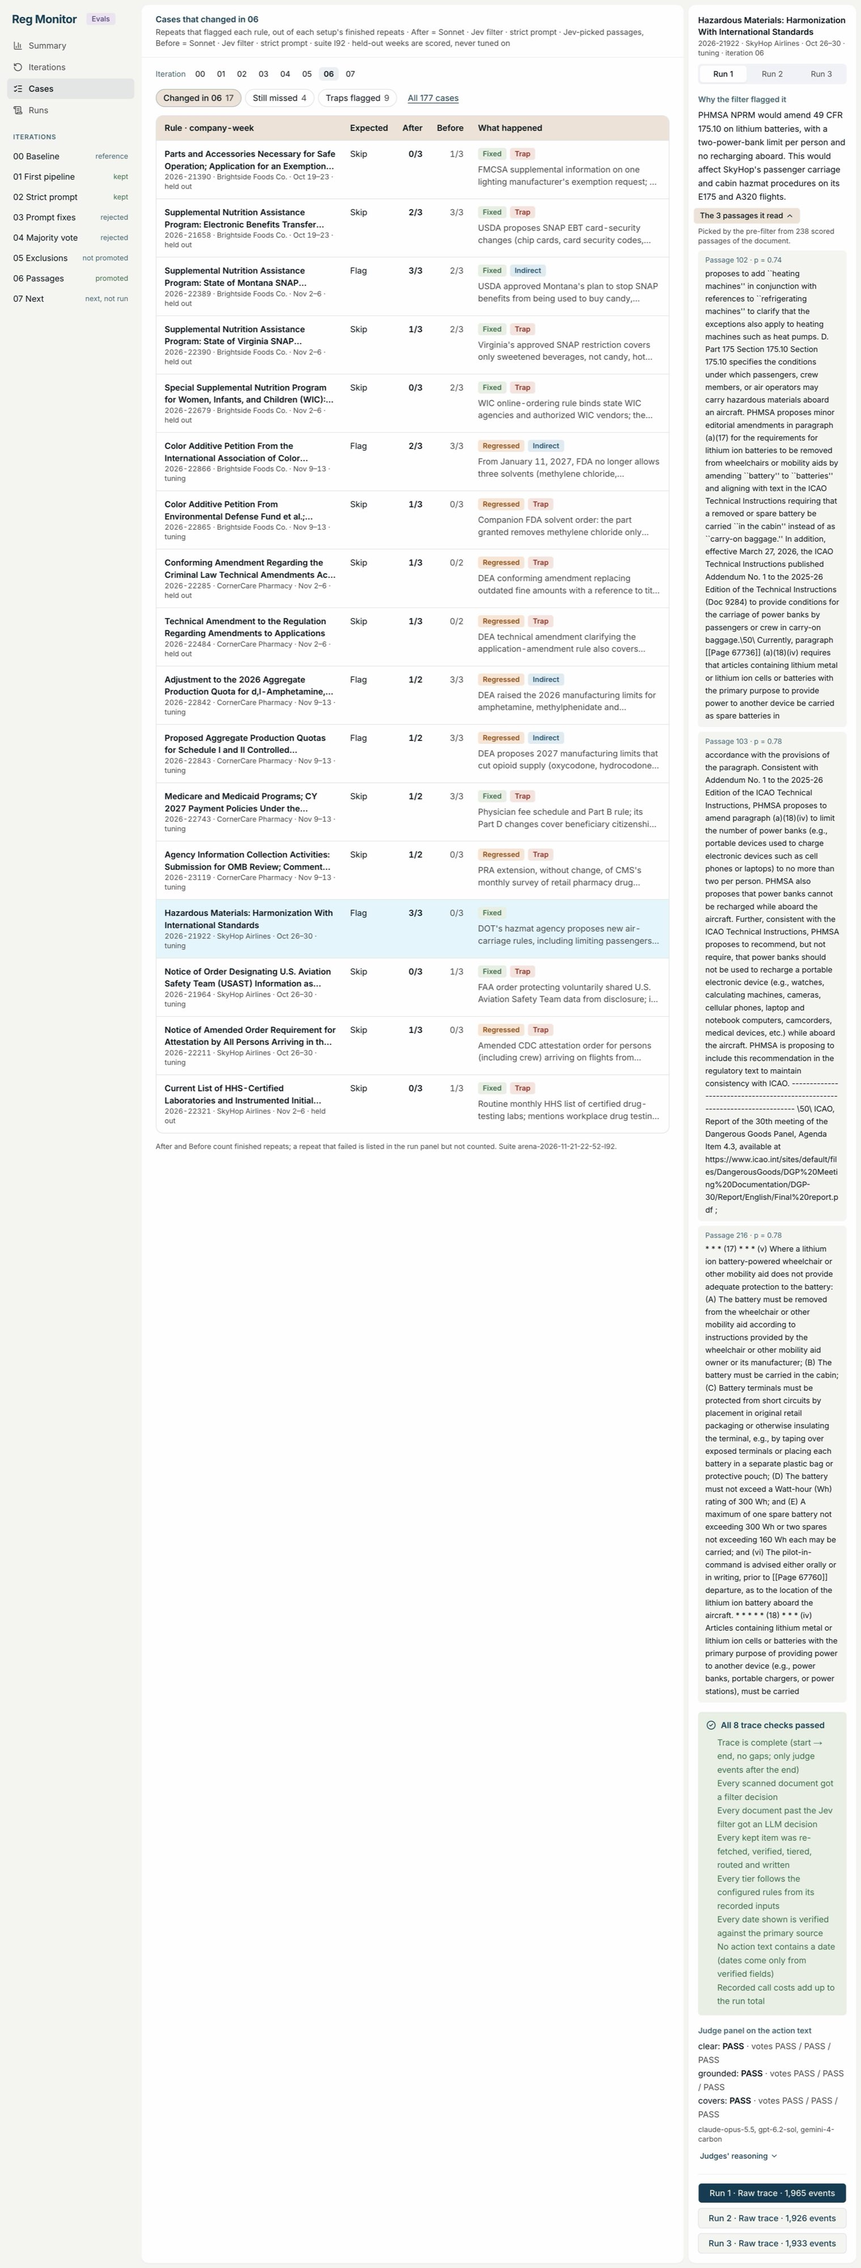
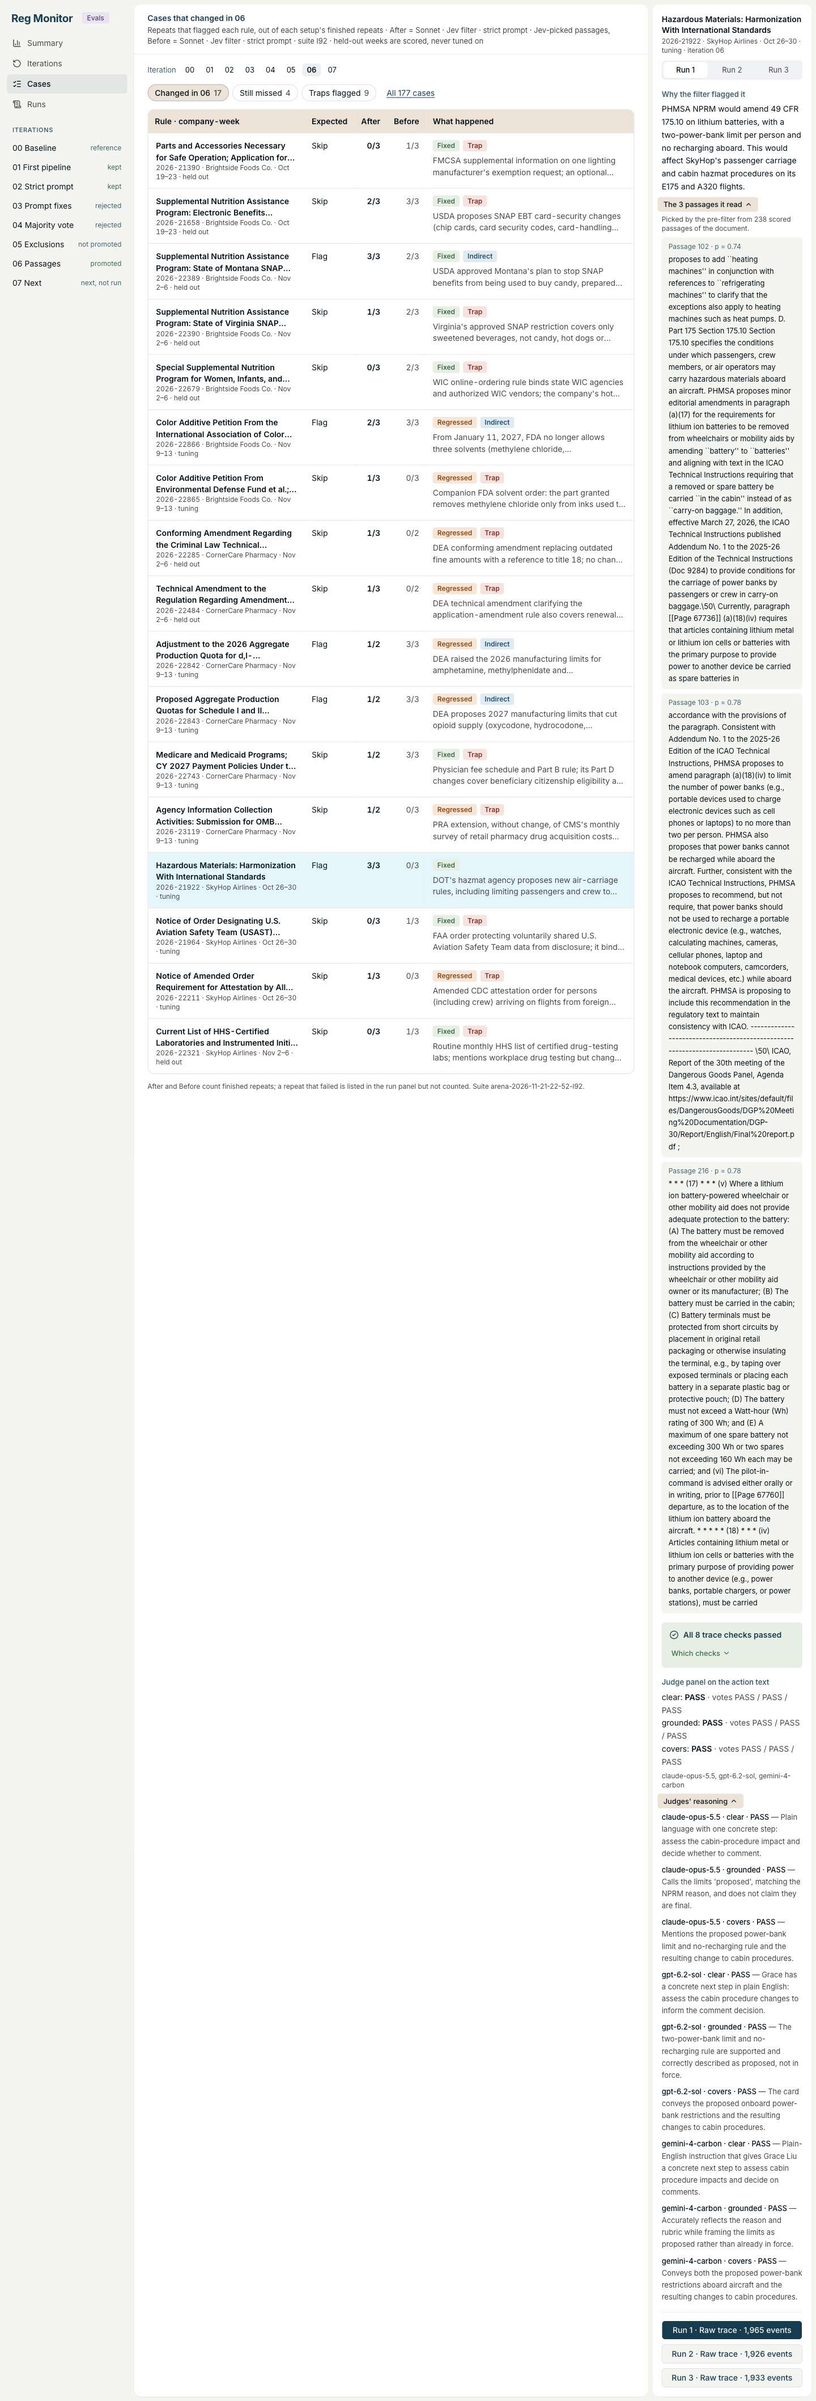
Chunk 09: drop a dead guard, catch case errors, name the trace search; narrow the n/3 needle; saved browser evidence
- cases.ts: rateOrder's zero-finished branch was unreachable (the cross product is already 0).
- CasesView: a throw from casesForIteration shows in the load state instead of crashing the render.
- no-typed-numbers.sh: n/3 needle skips Tailwind fractions (re-canaried).
- evidence/: click paths, frame times, 390 px widths, iterations 00-07, run panel, failed-run checks,
  missing-key state and final gates, written by the browser tool rather than transcribed.

Changed region(s): [[0.1562, 0.0, 0.7812, 0.5], [0.8125, 0.0, 1.0, 1.0], [0.0, 0.0, 0.1562, 0.125]]

diff --git a/src/components/evals/CasesView.tsx b/src/components/evals/CasesView.tsx
@@ -97,10 +97,16 @@ export function CasesView({ sidebar, iterationId, directory, story }: { sidebar:
   const [filter, setFilter] = useState<CaseFilter | null>(null);
   const [selected, setSelected] = useState<string | null>(null);
 
-  const rows = useMemo(
-    () => (it?.setup && loaded?.data ? casesForIteration(loaded.data.runs, { setup: it.setup, comparedTo: it.comparedTo }, loaded.data.keys) : null),
-    [it, loaded],
-  );
+  // casesForIteration throws for a run without an eval set or an eval set without a key: show that, not a blank page.
+  const computed = useMemo(() => {
+    if (!it?.setup || !loaded?.data) return { rows: null, error: null };
+    try {
+      return { rows: casesForIteration(loaded.data.runs, { setup: it.setup, comparedTo: it.comparedTo }, loaded.data.keys), error: null };
+    } catch (e) {
+      return { rows: null, error: (e as Error).message };
+    }
+  }, [it, loaded]);
+  const rows = computed.rows;
   const runsById = useMemo(() => new Map((loaded?.data?.runs ?? []).map((r) => [r.id, r])), [loaded]);
 
   const shell = (main: ReactNode, aside?: ReactNode) => (
@@ -153,7 +159,7 @@ export function CasesView({ sidebar, iterationId, directory, story }: { sidebar:
         <Header title={title} sub={sub} />
         <Body>
           <IterationNav index={index} current={it.id} />
-          {loaded?.error ? <LoadState error={loaded.error} /> : <p className="m-0 text-muted-foreground" aria-live="polite">Loading the suite&apos;s runs and answer keys…</p>}
+          {loaded?.error || computed.error ? <LoadState error={loaded?.error ?? computed.error} /> : <p className="m-0 text-muted-foreground" aria-live="polite">Loading the suite&apos;s runs and answer keys…</p>}
         </Body>
       </>,
     );

diff --git a/plans/2026-11-22-demo-build/09-eval-cases-traces/click-path.js b/plans/2026-11-22-demo-build/09-eval-cases-traces/click-path.js
@@ -4,6 +4,7 @@
 // eslint-disable-next-line @typescript-eslint/no-unused-expressions -- an expression on purpose: evaluate_script calls it
 async () => {
   const { via, runId, iteration, caseDoc, repeat } = window.__clickPath;
+  // A failed step is returned as { ok: false, error } so the evidence file records it (rather than the tool erroring).
   const wait = async (pred, what, ms = 30000) => {
     const t0 = performance.now();
     for (;;) {
@@ -18,6 +19,7 @@ async () => {
     steps.push(label);
     el.click();
   };
+  try {
   if (location.pathname !== "/evals") throw new Error(`start at /evals, not ${location.pathname}`);
   const navLink = (text) => [...document.querySelectorAll('nav[aria-label="Evaluation"] a')].find((a) => a.textContent.trim() === text);
   if (via === "runs") {
@@ -45,5 +47,8 @@ async () => {
     click(link, `Run panel: "${link.textContent.trim()}"`);
   }
   const h = await wait(() => [...document.querySelectorAll("main h1")].find((x) => /^Raw trace · [\d,]+ events$/.test(x.textContent))?.textContent, "trace loaded");
-  return { clicks: steps.length, steps, url: location.pathname, heading: h };
+  return { ok: true, clicks: steps.length, steps, url: location.pathname, heading: h };
+  } catch (e) {
+    return { ok: false, clicks: steps.length, steps, error: e.message };
+  }
 };

diff --git a/src/lib/evals/cases.ts b/src/lib/evals/cases.ts
@@ -77,9 +77,11 @@ function tally(reps: CaseRun[], flags: Map<string, Set<string>>, doc: string): T
 /** "3/3", or "—" when no repeat finished (never "0/0" or a made-up "0/3"). */
 export const formatTally = (t: Tally) => (t.finished ? `${t.hits}/${t.finished}` : "—");
 
-/** Compares hit rates (hits / finished) by cross-multiplying; null when either side has no finished repeat. */
-function rateOrder(a: Tally, b: Tally): -1 | 0 | 1 | null {
-  if (!a.finished || !b.finished) return null;
+/**
+ * Compares hit rates (hits / finished) by cross-multiplying. A side with no finished repeat has 0 hits, so the
+ * product is 0 and the case reads as unchanged, never as Fixed or Regressed.
+ */
+function rateOrder(a: Tally, b: Tally): -1 | 0 | 1 {
   const d = a.hits * b.finished - b.hits * a.finished;
   return d === 0 ? 0 : d > 0 ? 1 : -1;
 }

diff --git a/src/components/evals/TraceViewer.tsx b/src/components/evals/TraceViewer.tsx
@@ -138,6 +138,7 @@ export function TraceViewer({ suiteId, runId }: { suiteId: string; runId: string
         <span className="sr-only">Search the trace</span>
         <input
           type="search"
+          name="q"
           value={query}
           onChange={(e) => setQuery(e.target.value)}
           placeholder="Document number or word"

diff --git a/plans/2026-11-22-demo-build/09-eval-cases-traces/completion-report.md b/plans/2026-11-22-demo-build/09-eval-cases-traces/completion-report.md
@@ -4,6 +4,14 @@ Branch `feat/demo-build--eval-cases-traces`, base `8222830` (`git merge-base HEA
 The plan's **Preflight amendment (2026-11-23)** is the contract. Where it overrides the older text, this report
 follows the amendment.
 
+**Where the evidence is.**
+- Browser measurements were saved by chrome-devtools `evaluate_script` straight to files in `evidence/` (in this
+  chunk dir), not copied by hand. That covers click paths, frame times, the 390 px widths, iterations 00–07, the
+  run panel, the failed-run checks box and the missing-key state.
+- The final gate output is `evidence/final-gates.txt`.
+- Red runs, mutation outputs, canaries and the baseline are in the scratch dir `/private/tmp/claude-501/-Users-anfal-Projects-hobby-projects-gc-ai-swe-take-home/ddc2e56d-412d-41ac-a327-b31278844f2d/scratchpad/chunk-09/` (`red/`, `mut/`,
+  `canaries*.txt`, `baseline/`, `basegates/`, `routes/`).
+
 ## What changed
 
 | File | Change | Why |
@@ -28,7 +36,7 @@ follows the amendment.
 | `plans/.../08-eval-summary-iterations/no-typed-numbers.sh` | edited | Adds needles for this chunk's figures (`177`, `2,104`/`2104`, `439`, `n/3`, `n trace checks`). |
 | `package.json`, `pnpm-lock.yaml` | edited | `@tanstack/react-virtual` `3.14.26`, pinned exactly (`pnpm add -E`). |
 | `.claude/resources/project.md` | edited | Layout (routes, components, lib modules), the Convention Map eval row (tests run on shipped data), and two Conventions: per-case grading, and trace links / judges / user-view. Stack and Commands are untouched; the Stack row is left to the lead (see below). |
-| `plans/.../09-eval-cases-traces/click-path.js`, `screenshots/` | created | Click-path check script (below) and the screenshots. |
+| `plans/.../09-eval-cases-traces/click-path.js`, `screenshots/`, `evidence/` | created | Click-path check script, screenshots, and the saved browser measurements. |
 
 **Stack row for the lead.** 04 owns Stack this wave. The row to add is ``Trace list virtualization (eval view) | `@tanstack/react-virtual` (pinned; pulls `@tanstack/virtual-core` 3.19.11) | 3.14.26``. Both versions were read from `node_modules/@tanstack/react-virtual/package.json` and `pnpm-lock.yaml`. `package.json` and `pnpm-lock.yaml` changed in commit `aa1eff4`, so they may conflict with 04 at merge.
 
@@ -41,23 +49,28 @@ follows the amendment.
 | Panel has Run 1/2/3 tabs | yes | `RunPanel` tabs come from `row.after.repeats`; a failed repeat reads "Run 3 · failed" |
 | Panel: "Why the filter flagged it", the LLM reason | yes | Taken from `decisions[].llm.reason` (amendment 7). `runFacts.test.ts` › "gives the LLM filter's reason …". Other states: Jev-screened, baseline (no filter step), failed, none. Each has a test |
 | Panel: "The N passages it read" when recorded | yes | N comes from the data: `traceFacts` test shows power bank = 3 of 238 chunks and doc `2026-21960` = 2. For setups without passages: "No passages recorded…" (test › "has no passages for a setup that doesn't record them") |
-| Panel: trace checks, "All N passed" or the failing ones named | yes | `ChecksBox` ← `checkSummary` (test). Live: "All 8 trace checks passed" (06) and "All 5 …" (00 baseline). The failed run `wqxz` shows 2 failing checks with detail |
+| Panel: trace checks, "All N passed" or the failing ones named | yes | `ChecksBox` ← `checkSummary` (test). Live: "All 8 trace checks passed" (06; `evidence/run-panel-power-bank.json`) and "All 5 …" (00 baseline). The failed run `wqxz` reads "2 of 8 trace checks failed", naming both checks with their detail (`evidence/trace-failed-run-wqxz.json`) |
 | Panel: judge verdicts with votes, reasoning collapsed | yes | `judgeView` tests: judged (3 criteria, votes, 9 reasons), notJudged (repeat 1, amendment 8), and nothingToJudge (judged run that didn't flag the doc) |
 | "Raw trace · N events" for every repeat (amendment 1) | yes | Live: `Run 1 · Raw trace · 1,965 events / Run 2 · … 1,926 / Run 3 · … 1,933` (power bank). The failed repeat reads `Run 3 · Raw trace · 453 events (failed run)` |
-| Trace page: fetches one gz file, decompresses in the browser, virtualized list smooth at 2,104 events | yes | Measured on `k6tv` (2,104 events) under `pnpm start`: **25 rows in the DOM at the top and 25 at the bottom**. Scrolling in 200 rAF steps gave median frame 8.3 ms, p95 9.0 ms, max 9.8 ms. The last row reached was `#2103 Verdict …` |
+| Trace page: fetches one gz file, decompresses in the browser, virtualized list smooth at 2,104 events | yes | `evidence/trace-virtualization-k6tv.json`, measured on the final build. **28 rows in the DOM at the top and 28 at the bottom of 2,104.** Scrolling in 200 rAF steps gave median frame 8.3 ms, p95 9.2 ms, max 11.1 ms. The last row reached was `#2103 Verdict …` |
 | Trace page shows the trace-check summary first | yes | `ChecksBox` renders above the chips (`screenshots/trace-decisions-desktop.jpeg`). User-view: "No trace checks recorded for this run." |
 | Trace page: chips by type, search by doc number or word | yes | `traceIndex.test.ts`: type filter, doc-number search, value-only search (a key-only word finds 0), case-insensitive, combined. Live: "Decisions only" gives `Showing 466 of 2,104 events` |
 | Trace page: any event's JSON opens on click | yes | Live: clicking `#1624` opens `Event #1624 · filter.decision` with pretty JSON (screenshot) |
 | ~~Run report link~~ | moved | Moved to chunk 06 (amendment 2) |
-| 390 px: side panel stacks under the table | yes | Cases at 390×844: `scrollWidth 390 = clientWidth 390`, aside top ≥ main bottom, table 340 px in a 340 px container, no element overflowing outside a scroller. Trace page (decisions + JSON open) and Runs page: `scrollWidth 390 = clientWidth 390`. Screenshots `cases-06-390.jpeg`, `runs-390.jpeg` |
-| Amendment 11: bare `/evals/cases` → 06; 00 shows its setup alone; 07 has an empty state | yes | Bare URL opens "Cases that changed in 06". `?iteration=00-baseline`: "Cases in 00", filters `Still missed 8 · Traps flagged 5 · All 93 cases`, no Before column. `?iteration=07-next`: "Iteration 07 has no cases … evidence only …", with 0 `runs.jsonl` fetches |
+| 390 px: side panel stacks under the table | yes | `evidence/width-390-cases.json`: `docScrollWidth 390 = docClientWidth 390`, aside top 4213 ≥ main bottom 4205, table 340 in a 340 container, 0 elements overflowing outside a scroller. `width-390-trace.json` (decisions filter + JSON open, `pre` doesn't scroll sideways) and `width-390-runs.json`: 390 = 390. Screenshots `cases-06-390.jpeg`, `runs-390.jpeg` |
+| Amendment 11: bare `/evals/cases` → 06; 00 shows its setup alone; 07 has an empty state | yes | Bare URL opens "Cases that changed in 06". `evidence/iterations-00-07.json` renders all eight iterations: 00 is "Cases in 00" with filters `Still missed 8 · Traps flagged 5 · All 93 cases` and columns `Flagged`/What happened (no Before); 01–06 each show a table, "Changed in NN" counts 27/22/9/7/9/17, and no alert; 07 shows "Iteration 07 has no cases" (an earlier check saw 0 `runs.jsonl` fetches) |
+| A case computation that throws shows an error, not a blank page | yes | `evidence/cases-missing-key-state.json`: with `index.json` patched in the page to drop one l92 eval set, the page shows "The recorded evaluation could not be loaded: no answer key for eval set brightside_2026-10-19_2026-10-23" and no table |
+| No console errors | yes | `list_console_messages` was empty on the final build for Cases (bare URL), Runs and the trace page. An earlier "form field should have an id or name" issue was fixed (`name="q"` on the trace search) |
 | Amendment 10: loader extensions, user-view = no trace checks | yes | `loader.test.ts` (12 new tests), including › "is null for the example runs … without fetching anything" (`requested` = `[]`) |
 
 ### Click paths from `/evals` (amendment 1; SPEC "≤ 3 clicks")
 
 `click-path.js` runs in the page through chrome-devtools `evaluate_script`. Each step is a real `.click()` on a
 rendered link or button, and the script counts the clicks and waits for `Raw trace · N events` to render. Results
-under `pnpm start -p 3901`:
+under `pnpm start -p 3901` were saved by the tool to `evidence/click-1…7-*.json`.
+
+Runs 2–7 used the script before its last edit, which wrapped the body in `try/catch` so a failure returns
+`{ok:false, error}` instead of throwing. Click 1 and the negative control were re-run with the final script.
 
 | Run | Path | Clicks | Landed on / heading |
 | --- | ---- | ------ | ------------------- |
@@ -69,8 +82,8 @@ under `pnpm start -p 3901`:
 | Outside the iteration's setups: w0i `llm-sonnet`, Brightside Nov 9–13, repeat 0 `…cost` | sidebar Runs → "Raw trace" | **2** | `/evals/traces/arena-…-w0i/…cost` · "Raw trace · 598 events" |
 | User-view run `…xzrc` (hearth) | sidebar Runs → "Raw trace" | **2** | `/evals/traces/user-view/…xzrc` · "Raw trace · 920 events" |
 
-Negative control: the same script run for a non-existent id (`2026-01-01T00-00-00-000Z_pipeline_none`) threw
-`timed out waiting for trace link for 2026-01-01T00-00-00-000Z_pipeline_none`. The Runs page renders 461 trace
+Negative control (`evidence/click-negative-control.json`): for a non-existent id the script returned
+`{"ok":false,"clicks":1,…,"error":"timed out waiting for trace link for 2026-01-01T00-00-00-000Z_pipeline_none"}`. The Runs page renders 461 trace
 links (439 suite runs + 22 example runs, matching `index.counts`).
 
 ### Per-case sums vs `report.json`
@@ -86,13 +99,13 @@ Example, l92: passages tp 50, fn 6, trapHit 12, tn 446, unlabeled 13 → recall 
 
 ## Tests
 
-The red runs are saved under the chunk-09 scratch dir (`red/`, `mut/`). Kind of red is stated for each.
+The red runs are in the scratch dir named at the top (`red/`, `mut/`). The kind of red is stated for each.
 
 | Test | Red run (before implementation) | Green run |
 | ---- | ------------------------------- | --------- |
 | `cases.test.ts` (36) | **Import red**: `Failed to resolve import "./cases"`, `Tests no tests` (`red/cases-import.txt`) | 36 passed |
 | `traceIndex.test.ts` (14), `runList.test.ts` (17) | **Import red**: both files `FAIL … [ file ]` (`red/t001-before-impl.txt`) | 14 / 17 passed |
-| `loader.test.ts`, 12 new | **Assertion-level red**: `TypeError: loadSuiteReport is not a function` (and the same for each new loader); the 16 existing tests passed (`red/t001-before-impl.txt`) | 28 passed |
+| `loader.test.ts`, 12 new | **Red in this worktree before `loader.ts` was touched** (not in the base worktree): `TypeError: loadSuiteReport is not a function`, and the same for each new loader. The 16 existing tests passed (`red/t001-before-impl.txt`) | 28 passed |
 | `runFacts.test.ts` (12) | **Import red**: `Cannot find module './runFacts'` (`red/runFacts-import.txt`) | 12 passed |
 | `evalsetInfo.test.ts` (4) | **Not seen red before the module.** I wrote the module first. Red is shown only through the mutations below. | 4 passed |
 
@@ -103,6 +116,8 @@ and checked with `diff -q`):
 | -------- | ---------------- | ------------- |
 | **Subset grading** (plan's mutation check) | `gradedFlags` also keeps flags outside the key (`keyed.has(d) \|\| true`) | 9 tests, including all 7 multi-setup suites in › "per-case sums reproduce each suite's report.json". l92: `- "trapHit": 12, + "trapHit": 25`. Also › "keeps only the run's flags that the key labels" and › "counts unlabeled flags without penalising precision" |
 | "Changed" = hit rate, not count | `rateOrder` compares `a.hits - b.hits` | › "does not call a case changed when only the number of finished repeats differs (2/2 vs 3/3)" (real l92 data) and › "2/2 vs 3/3 is not a change" |
+| A side with 0 finished repeats is never a change | `rateOrder` compares rates with `/(finished \|\| 1)` and breaks ties by `finished` (`mut/zero-finished-changed.txt`) | 4 tests, including › "shows — for a setup with no repeats … never calls it changed". The earlier explicit `if (!a.finished \|\| !b.finished) return null` was **dead code**: the cross product is already 0. It was removed, and the comment now states why |
+| Example runs have no trace checks | deleted `if (suiteId === USER_VIEW) return null` in `loadTraceChecks` (`mut/loader-user-view.txt`) | › loadTraceChecks "is null for the example runs … without fetching anything": `GET /evals/suites/user-view/trace-checks.json returned 404` |
 | Skip rows flip direction | `better = 1` for every row | › "for a Skip (trap) row a hit means flagged: … Fixed … Regressed" |
 | 0 repeats → "—", not 0/3 | `formatTally` → `${hits}/${finished \|\| 3}` | › "shows — for a setup with no repeats …", › "shows — for a setup whose every repeat failed" |
 | Superseded runs excluded | dropped `!r.superseded` in `casesForIteration`; separately in `setupTotals` | › "leaves superseded runs out of every tally"; › setupTotals "leaves superseded runs out" |
@@ -112,15 +127,15 @@ and checked with `diff -q`):
 | runFacts branches | removed failed / baseline branch; `none` → `jev`; `notJudged` → `nothingToJudge`; removed `nothingToJudge` | the one matching test each time (5 mutations, 5 reds) |
 | runList guards | removed `runLabel` throw; `checkSummary(null)` returns zeros | › "throws naming the run …"; › "is null when no checks were recorded" |
 | evalsetInfo | removed the unknown-company throw; one-month format only | › "throws naming the eval set whose company has no profile"; › "names both months across a month boundary" |
-| No typed numbers (6 new needles) | four-step canary per needle (plant `Canary.tsx`, gate fires, remove, gate clean) | all 6 caught with exit 1 and clean after removal (`canaries.txt`) |
+| No typed numbers (6 new needles) | four-step canary per needle (plant `Canary.tsx`, gate fires, remove, gate clean) | all 6 caught with exit 1 and clean after removal (`canaries.txt`). The `n/3` needle was then narrowed to `(^\|[^-])\b[0-9]/3\b`, so a Tailwind fraction can't trip it, and re-canaried (`canaries-2.txt`): `After 3/3` and `0/3` caught, `w-1/3 aspect-4/3` not caught, clean after each |
 
 The first `keep-superseded` mutation **survived**, because `repeatsOf` filtered superseded runs a second time.
 I removed the redundant filter, added the `setupTotals` superseded test, and re-ran: both mutations go red.
 
 ## Gates
 
-The final block was run after the last code edit (output saved as `final-gates.txt`; type check is last inside
-`gates.sh`):
+The final block was run after the last code edit (`evidence/final-gates.txt`; type check is last inside
+`gates.sh`). The poc check in that run uses the explicit form below:
 
 | Gate | Command | Result | Fails on base? |
 | ---- | ------- | ------ | -------------- |
@@ -130,7 +145,7 @@ The final block was run after the last code edit (output saved as `final-gates.t
 | No `poc/` paths | the plan's `! git ls-tree … \| grep -q '^poc/'` and `! git log … \| grep -q '^poc/'` | passed | **The plan's form is vacuous under `set -e`**, because bash exempts negated pipelines. `bash -c 'set -e; ! echo poc/x \| grep -q "^poc/"; echo still running'` printed "still running". I re-ran it as explicit counts: `poc/ paths in tree: 0; in branch history: 0` |
 | New routes exist | `curl -w '%{http_code}'` on base (`pnpm start -p 3902`) and branch (`-p 3901`) | branch: `/evals/cases 200`, `/evals/runs 200`, `/evals/traces/…/k6tv 200` | **Yes**: base `404 / 404 / 404` (`routes/status.txt`) |
 
-Baseline before this chunk, captured in the chunk-09 scratch dir `baseline/`: lint exit 0, 0 warnings; tests 25
+Baseline before this chunk, captured in the scratch dir's `baseline/`: lint exit 0, 0 warnings; tests 25
 files / 285 passed; typecheck exit 0. After: lint 0 errors and 0 warnings, 30 files / 380 tests, typecheck 0. The
 delta is +5 test files and +95 tests, with no new diagnostics.
 
@@ -162,6 +177,8 @@ failure. The worktree was removed afterwards.
   warns 1×).
 - **Trace chips start with every type shown.** The POC hid `jev.call` and `stage.start` by default. Showing all
   2,104 events is the stress case the AC names. "Decisions only" is one click.
+- **Case computation errors are caught.** `casesForIteration` throws for a missing key, and `CasesView` shows that
+  message in the load state instead of crashing the render (see AC table).
 - **`liveIterationId` returns null, not a throw**, so `EvalSummary` keeps its `?? iterations[0]` fallback
   exactly as before.
 

diff --git a/plans/2026-11-22-demo-build/09-eval-cases-traces/plan.md b/plans/2026-11-22-demo-build/09-eval-cases-traces/plan.md
@@ -210,8 +210,8 @@ revert.
 
 ## Artifacts Checklist
 
-- ☐ New tests
+- ☑ New tests
 - — Existing tests: none affected
-- ☐ Docs / conventions updated
+- ☑ Docs / conventions updated
 - — Generated code: n/a
-- ☐ `.claude/resources/project.md` updated (Layout)
+- ☑ `.claude/resources/project.md` updated (Layout)
